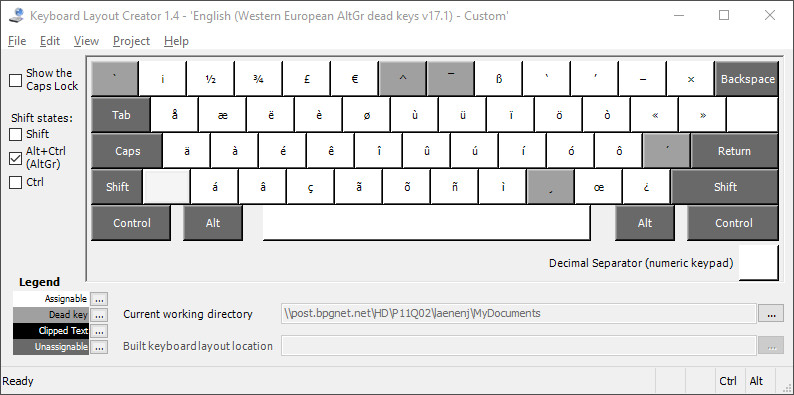
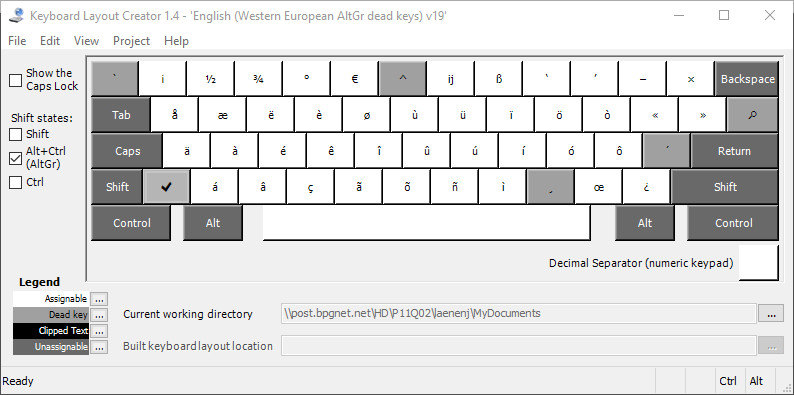
version 19 by Adriaan and the new v19 layout jpgs

diff --git a/Readme.md b/Readme.md
@@ -4,6 +4,8 @@ I had to change the name of this keyboard into an 8 character string altgrweu an
 
 Dead_greek doesn't work, so that is why altgr OEM_5 and altgr OEM_102 show up as empty.
 
+This is version v19 by Adriaan.
+
 ![AltGrg](AltGr.jpg)
 
 ![Shift+AltGr](ShiftAltGr.jpg)
